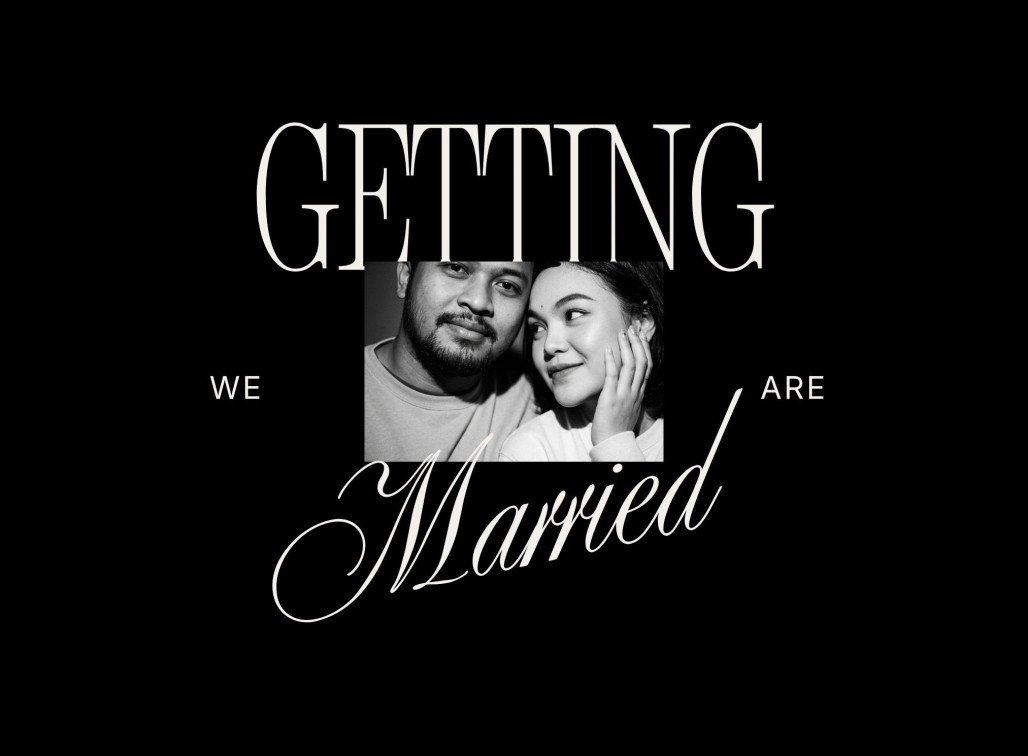
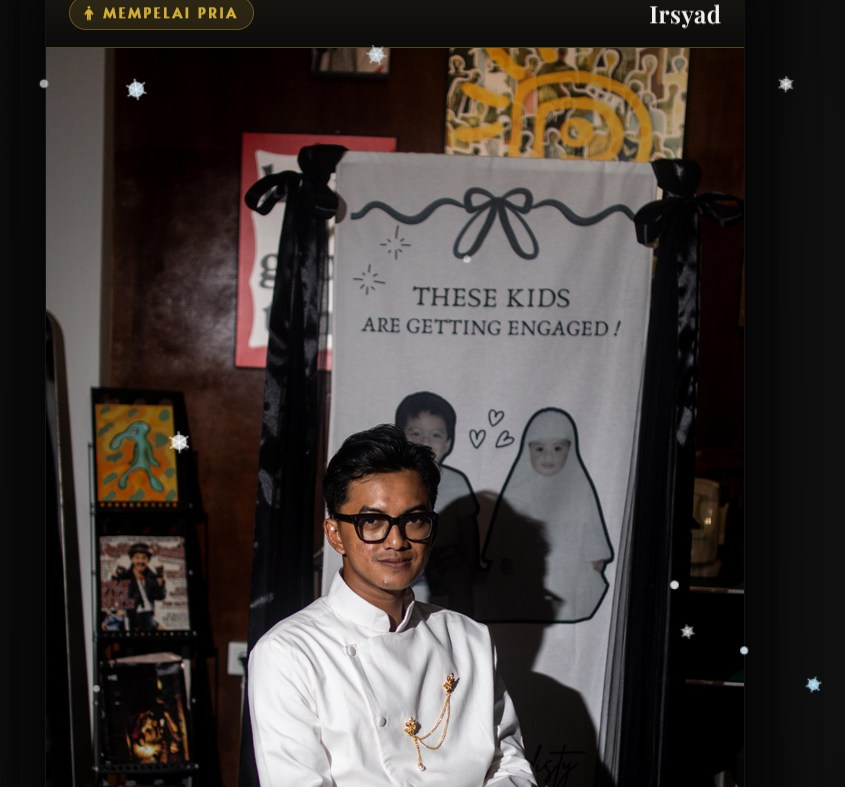
feat(cross-device-sync): Multi-device cloud sync, canvas image compressor & asset update
- Added Vercel serverless /api/sync endpoint for cross-device cloud data sync
- Integrated automatic HTML5 Canvas image compressor (max 1080px JPEG 0.85) in admin photo uploader
- Replaced default hero-couple-1.jpg, hero-couple-3.jpg, and cover.jpg with high-quality Irsyad photo in repo
- Configured vercel.json with zero-cache headers for instant mobile updates
- Enhanced DataStore.save() and loadRemoteData() to auto-sync across PC, mobile, and all guest devices

diff --git a/js/admin.js b/js/admin.js
@@ -488,6 +488,42 @@ document.addEventListener('DOMContentLoaded', () => {
     return v !== '' ? v : fallbackVal;
   }
 
+  function compressImage(file, maxDimension = 1080, quality = 0.85) {
+    return new Promise((resolve) => {
+      if (!file || !file.type.startsWith('image/')) {
+        return resolve(null);
+      }
+      const reader = new FileReader();
+      reader.onload = (e) => {
+        const img = new Image();
+        img.onload = () => {
+          let width = img.width;
+          let height = img.height;
+          if (width > maxDimension || height > maxDimension) {
+            if (width > height) {
+              height = Math.round((height * maxDimension) / width);
+              width = maxDimension;
+            } else {
+              width = Math.round((width * maxDimension) / height);
+              height = maxDimension;
+            }
+          }
+          const canvas = document.createElement('canvas');
+          canvas.width = width;
+          canvas.height = height;
+          const ctx = canvas.getContext('2d');
+          ctx.drawImage(img, 0, 0, width, height);
+          const compressed = canvas.toDataURL('image/jpeg', quality);
+          resolve(compressed);
+        };
+        img.onerror = () => resolve(e.target.result);
+        img.src = e.target.result;
+      };
+      reader.onerror = () => resolve(null);
+      reader.readAsDataURL(file);
+    });
+  }
+
   function bindImageField(fieldId, initialUrl) {
     const urlInputs = document.querySelectorAll(`#${fieldId}`);
     const fileInputs = document.querySelectorAll(`#${fieldId}-file`);
@@ -506,17 +542,17 @@ document.addEventListener('DOMContentLoaded', () => {
     });
 
     fileInputs.forEach(fileInput => {
-      fileInput.addEventListener('change', (e) => {
+      fileInput.addEventListener('change', async (e) => {
         const file = e.target.files[0];
         if (file) {
-          const reader = new FileReader();
-          reader.onload = (re) => {
-            const base64Url = re.target.result;
-            urlInputs.forEach(ui => ui.value = base64Url);
-            previews.forEach(p => p.src = base64Url);
+          showAdminToast('Mengompresi & menyiapkan foto...');
+          const compressedBase64 = await compressImage(file, 1080, 0.85);
+          if (compressedBase64) {
+            urlInputs.forEach(ui => ui.value = compressedBase64);
+            previews.forEach(p => p.src = compressedBase64);
             saveAllFormData(false);
-          };
-          reader.readAsDataURL(file);
+            showAdminToast('Foto berhasil diunggah!');
+          }
         }
       });
     });

diff --git a/js/data-store.js b/js/data-store.js
@@ -349,6 +349,7 @@ const DataStore = {
    */
   save(data) {
     try {
+      if (!data.lastModified) data.lastModified = Date.now();
       localStorage.setItem(STORAGE_KEY, JSON.stringify(data));
       
       // 1. Same-window CustomEvent
@@ -385,6 +386,9 @@ const DataStore = {
         }
       } catch(winErr) {}
 
+      // 5. Cloud Sync push to /api/sync
+      this.syncToCloud(data);
+
       return true;
     } catch (e) {
       console.error('Error saving DataStore', e);
@@ -393,9 +397,44 @@ const DataStore = {
   },
 
   /**
-   * Load remote data.json file from server (for first-time guests on any device)
+   * Push data payload asynchronously to cloud sync API
+   */
+  async syncToCloud(data) {
+    try {
+      await fetch('/api/sync', {
+        method: 'POST',
+        headers: { 'Content-Type': 'application/json' },
+        body: JSON.stringify(data)
+      });
+    } catch (err) {
+      // Offline / local fallback
+    }
+  },
+
+  /**
+   * Load remote data from /api/sync or data.json (for guests on any phone / device)
    */
   async loadRemoteData() {
+    // 1. Try /api/sync first
+    try {
+      const apiRes = await fetch('/api/sync?v=' + Date.now(), { cache: 'no-store' });
+      if (apiRes.ok) {
+        const cloudResult = await apiRes.json();
+        if (cloudResult && cloudResult.data && cloudResult.data.general) {
+          const cloudData = cloudResult.data;
+          const localData = this.get();
+          // If cloud data is newer or local is default, apply cloud data!
+          if (!localData.lastModified || (cloudData.lastModified && cloudData.lastModified >= localData.lastModified)) {
+            const merged = this._deepMerge(JSON.parse(JSON.stringify(DEFAULT_INVITATION_DATA)), cloudData);
+            localStorage.setItem(STORAGE_KEY, JSON.stringify(merged));
+            window.dispatchEvent(new CustomEvent('invitationDataUpdated', { detail: merged }));
+            return merged;
+          }
+        }
+      }
+    } catch (apiErr) {}
+
+    // 2. Fallback to data.json
     try {
       const response = await fetch('data.json?v=' + Date.now(), { cache: 'no-store' });
       if (response.ok) {

diff --git a/api/sync.js b/api/sync.js
@@ -1,0 +1,41 @@
+// Vercel Serverless Function: Real-Time Cross-Device Wedding Data Sync
+let inMemoryWeddingData = null;
+
+module.exports = async (req, res) => {
+  res.setHeader('Access-Control-Allow-Credentials', 'true');
+  res.setHeader('Access-Control-Allow-Origin', '*');
+  res.setHeader('Access-Control-Allow-Methods', 'GET,OPTIONS,PATCH,DELETE,POST,PUT');
+  res.setHeader(
+    'Access-Control-Allow-Headers',
+    'X-CSRF-Token, X-Requested-With, Accept, Accept-Version, Content-Length, Content-MD5, Content-Type, Date, X-Api-Version'
+  );
+  res.setHeader('Cache-Control', 'no-store, no-cache, must-revalidate, max-age=0');
+
+  if (req.method === 'OPTIONS') {
+    return res.status(200).end();
+  }
+
+  if (req.method === 'GET') {
+    if (inMemoryWeddingData) {
+      return res.status(200).json({ success: true, source: 'cloud-live', data: inMemoryWeddingData });
+    }
+    return res.status(200).json({ success: true, source: 'default', data: null });
+  }
+
+  if (req.method === 'POST') {
+    try {
+      const payload = typeof req.body === 'string' ? JSON.parse(req.body) : req.body;
+      if (payload && (payload.general || payload.data)) {
+        const weddingData = payload.data || payload;
+        weddingData.updatedAt = Date.now();
+        inMemoryWeddingData = weddingData;
+        return res.status(200).json({ success: true, message: 'Data synced successfully to cloud!', updatedAt: weddingData.updatedAt });
+      }
+      return res.status(400).json({ success: false, error: 'Invalid wedding data payload' });
+    } catch (err) {
+      return res.status(500).json({ success: false, error: err.message });
+    }
+  }
+
+  return res.status(405).json({ success: false, error: 'Method Not Allowed' });
+};
